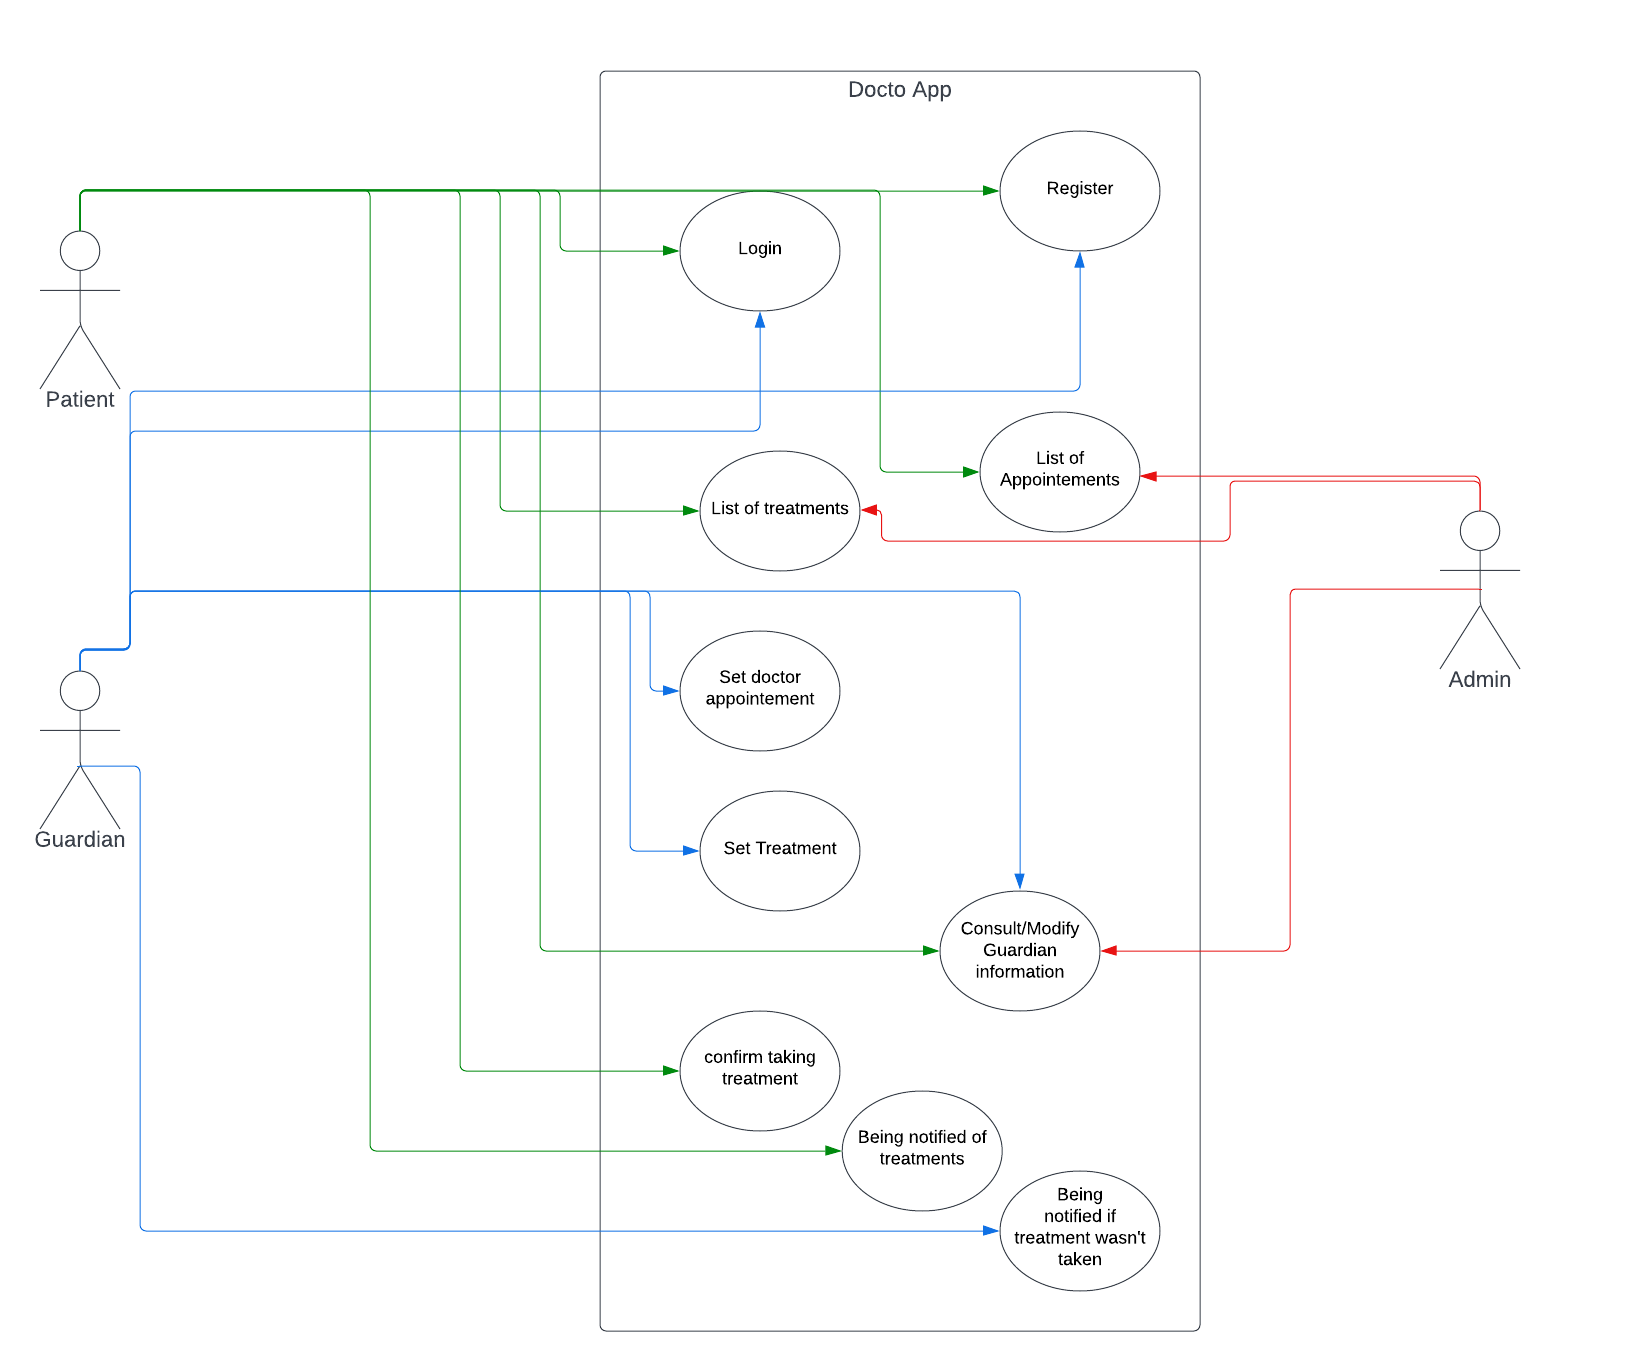
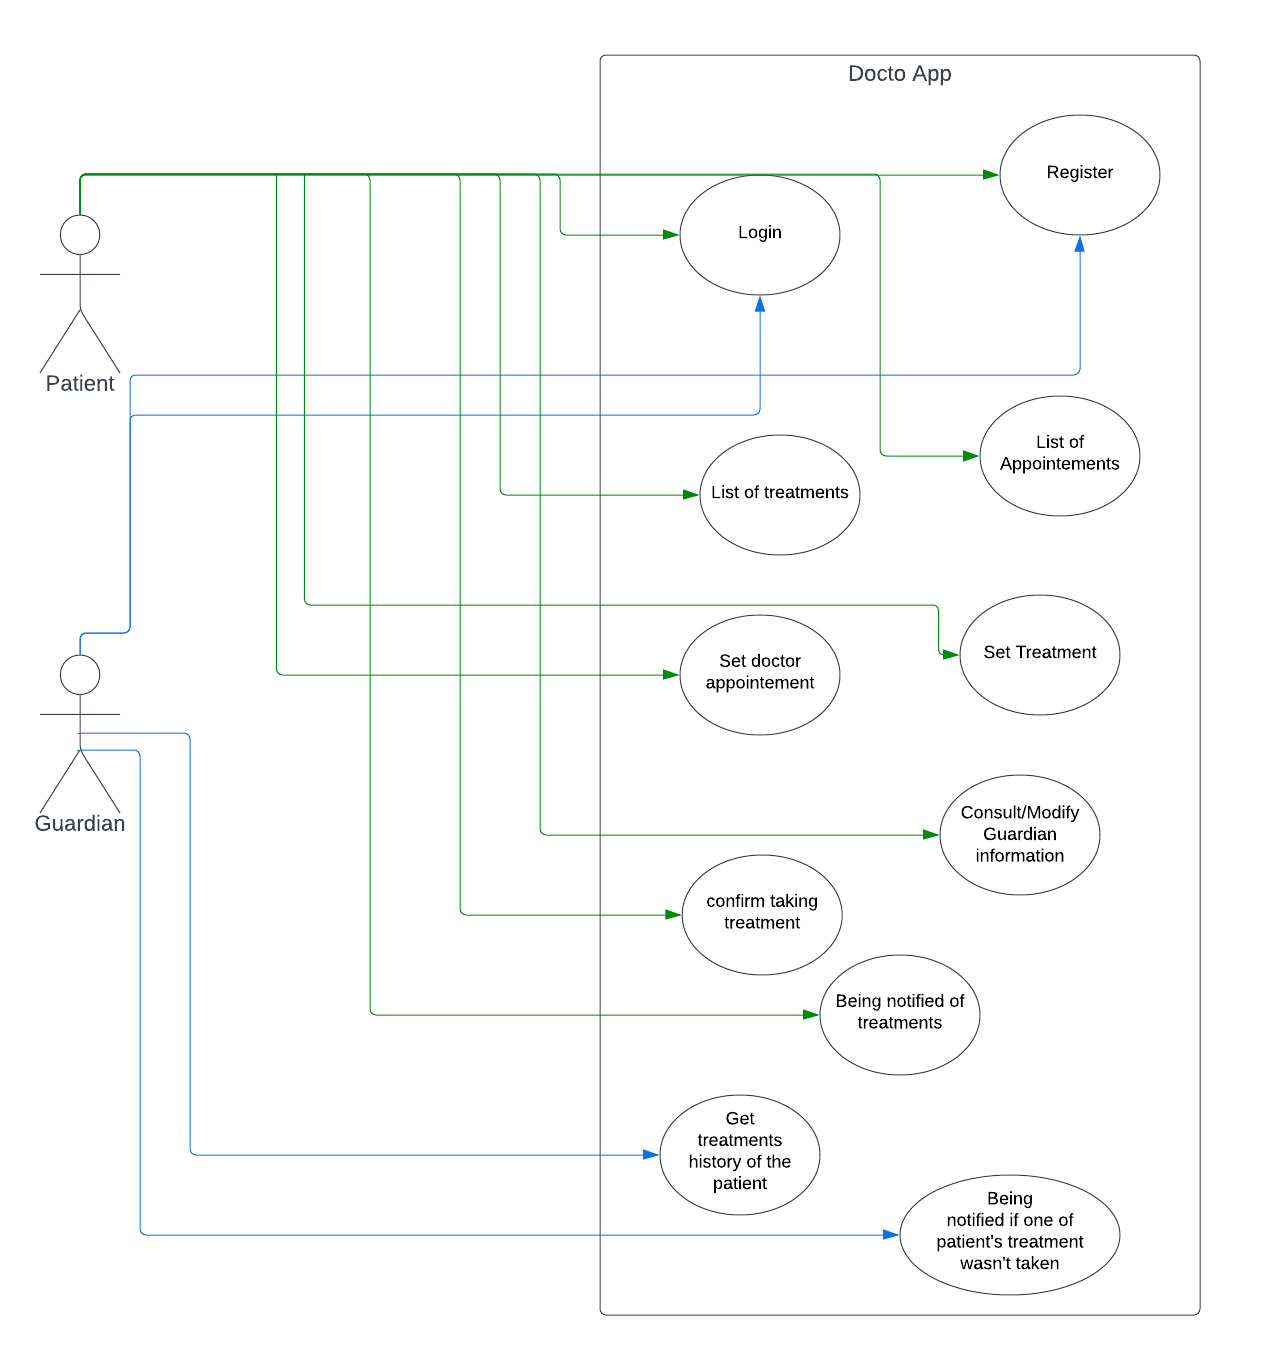
Update Use_case

diff --git a/Diagrams.html b/Diagrams.html
@@ -23,10 +23,11 @@
         <h1>Diagrams</h1>
         <h2>Use case diagram</h2>
         <img src="img_web/Use_case_Diagram.png" alt="img of the use case diagram" style="width:100%">
-        <p>This is our use case diagram, you can see 3 actors : patient, admin & Guardian
-            With Doctoapp, Patient can Login, Register, have a list of treatments or appointements, taking treatment, consult guardian or being notified for its treeatment.
-            Guardian can Login, Register, Consult and modify its informations, Take an appointment, Set a treatment or being notified if the patient didn't take its treatment.
-            Finaly the admin can access to the list of appointment, list of treatment and the guardian information.
+        <p>This is our use case diagram, you can see 2 primary actors : patient & Guardian
+            With Doctoapp, Patient can Login, Register, manage a list of treatments or appointements, and get notification to remind him to take his treatments.
+            He can also choose a guardian who will be informed if the patient doesn't take his medicines in time.
+            The patient can also add appointments or treatments in the app.
+            A Guardian can Login, Register, being notified if the patient didn't take its treatment & get the full history of his patient treatment at any time.
         </p>
 
         <h2>Activity diagram</h2>

diff --git a/index.html b/index.html
@@ -120,11 +120,6 @@
 
     </div>
 
-    
-
-
-    
-
     <div>
         <a href="https://github.com/jeremyGrelaud/DoctoApp.git">link to our github</a>
     </div>
